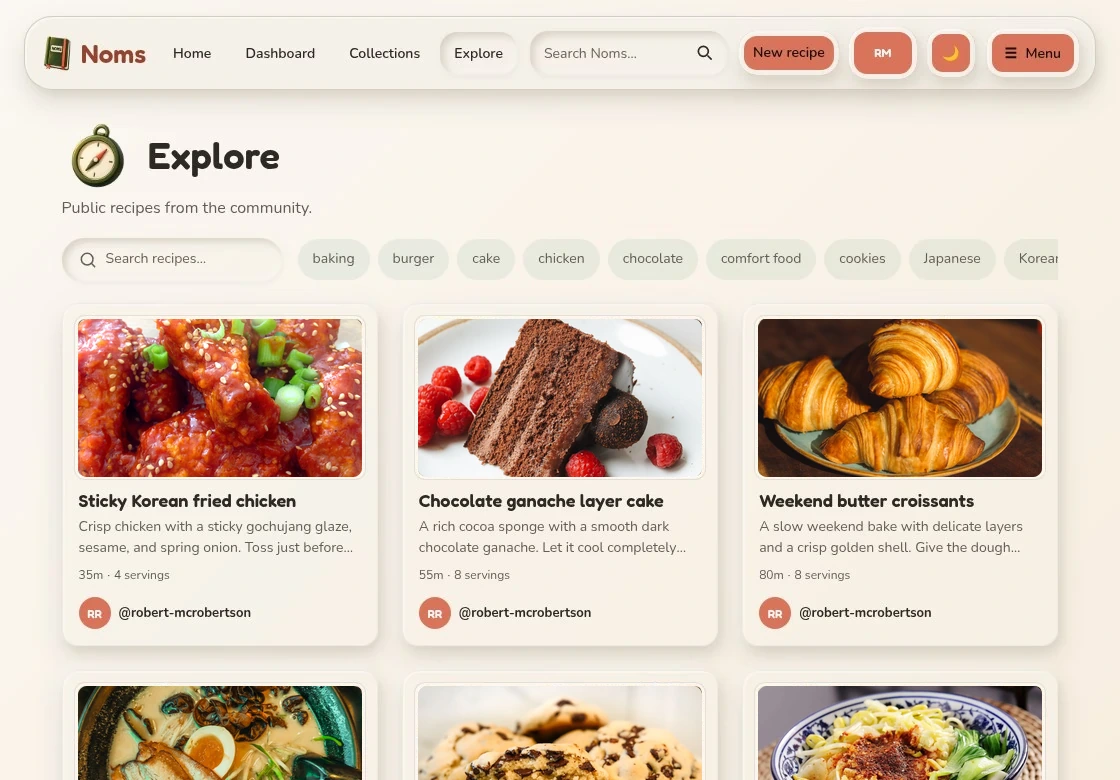
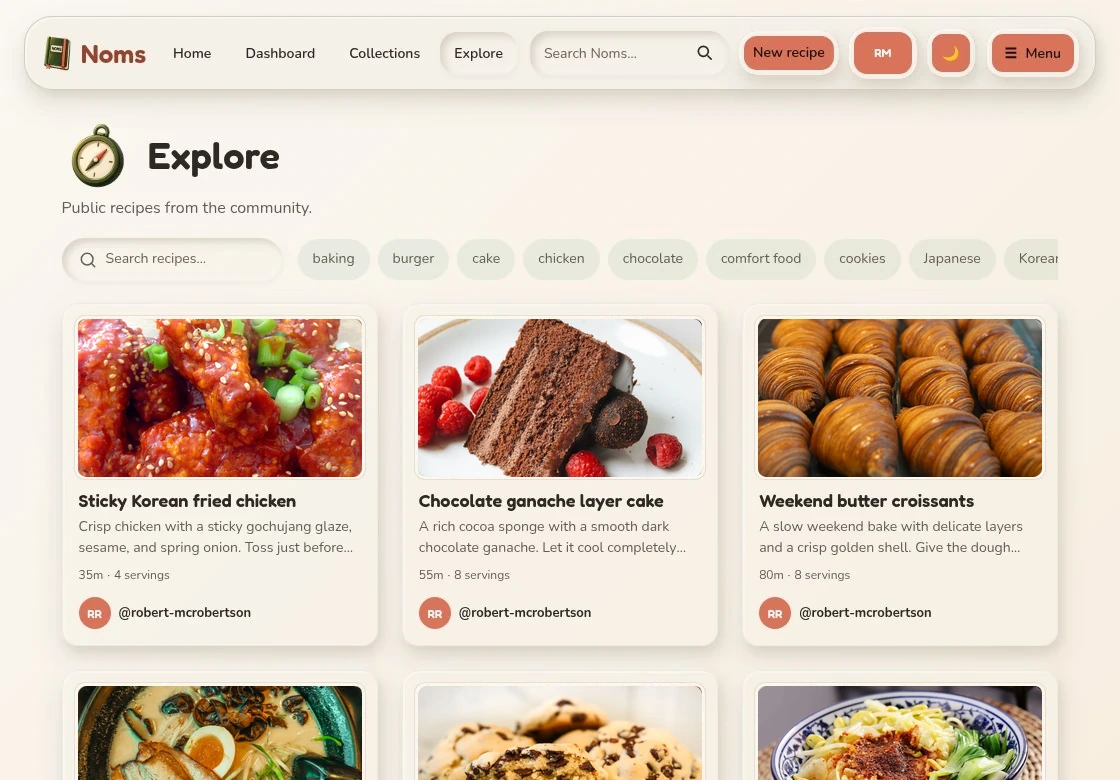
Use the artisan bakery croissant photo on the landing page

Changed region(s): [[0.6562, 0.4, 0.9375, 0.6154]]

diff --git a/assets/landing/README.md b/assets/landing/README.md
@@ -8,7 +8,7 @@ cropped and composited into the original screenshots.
 
 | Photo | Source and license |
 | --- | --- |
-| Butter croissants | [Close-Up Shot of Croissants](https://www.pexels.com/photo/close-up-shot-of-croissants-6202224/), Pexels |
+| Butter croissants | [Freshly Baked Artisan Croissants in Berlin Bakery](https://www.pexels.com/photo/freshly-baked-artisan-croissants-in-berlin-bakery-30853716/), Pexels |
 | Chocolate layer cake | [Sliced chocolate on a ceramic plate](https://www.pexels.com/photo/close-up-photo-of-sliced-chocolate-on-a-ceramic-plate-4110007/), Pexels |
 | Korean fried chicken | [Yangnyeom-chikin 1 by anokarina](https://commons.wikimedia.org/wiki/File:Yangnyeom-chikin_1.jpg), [CC BY-SA 2.0](https://creativecommons.org/licenses/by-sa/2.0/), cropped |
 | Mushroom burger | [Gourmet cheeseburger with mushrooms](https://www.pexels.com/photo/delicious-gourmet-cheeseburger-with-mushrooms-31138240/), Pexels |
